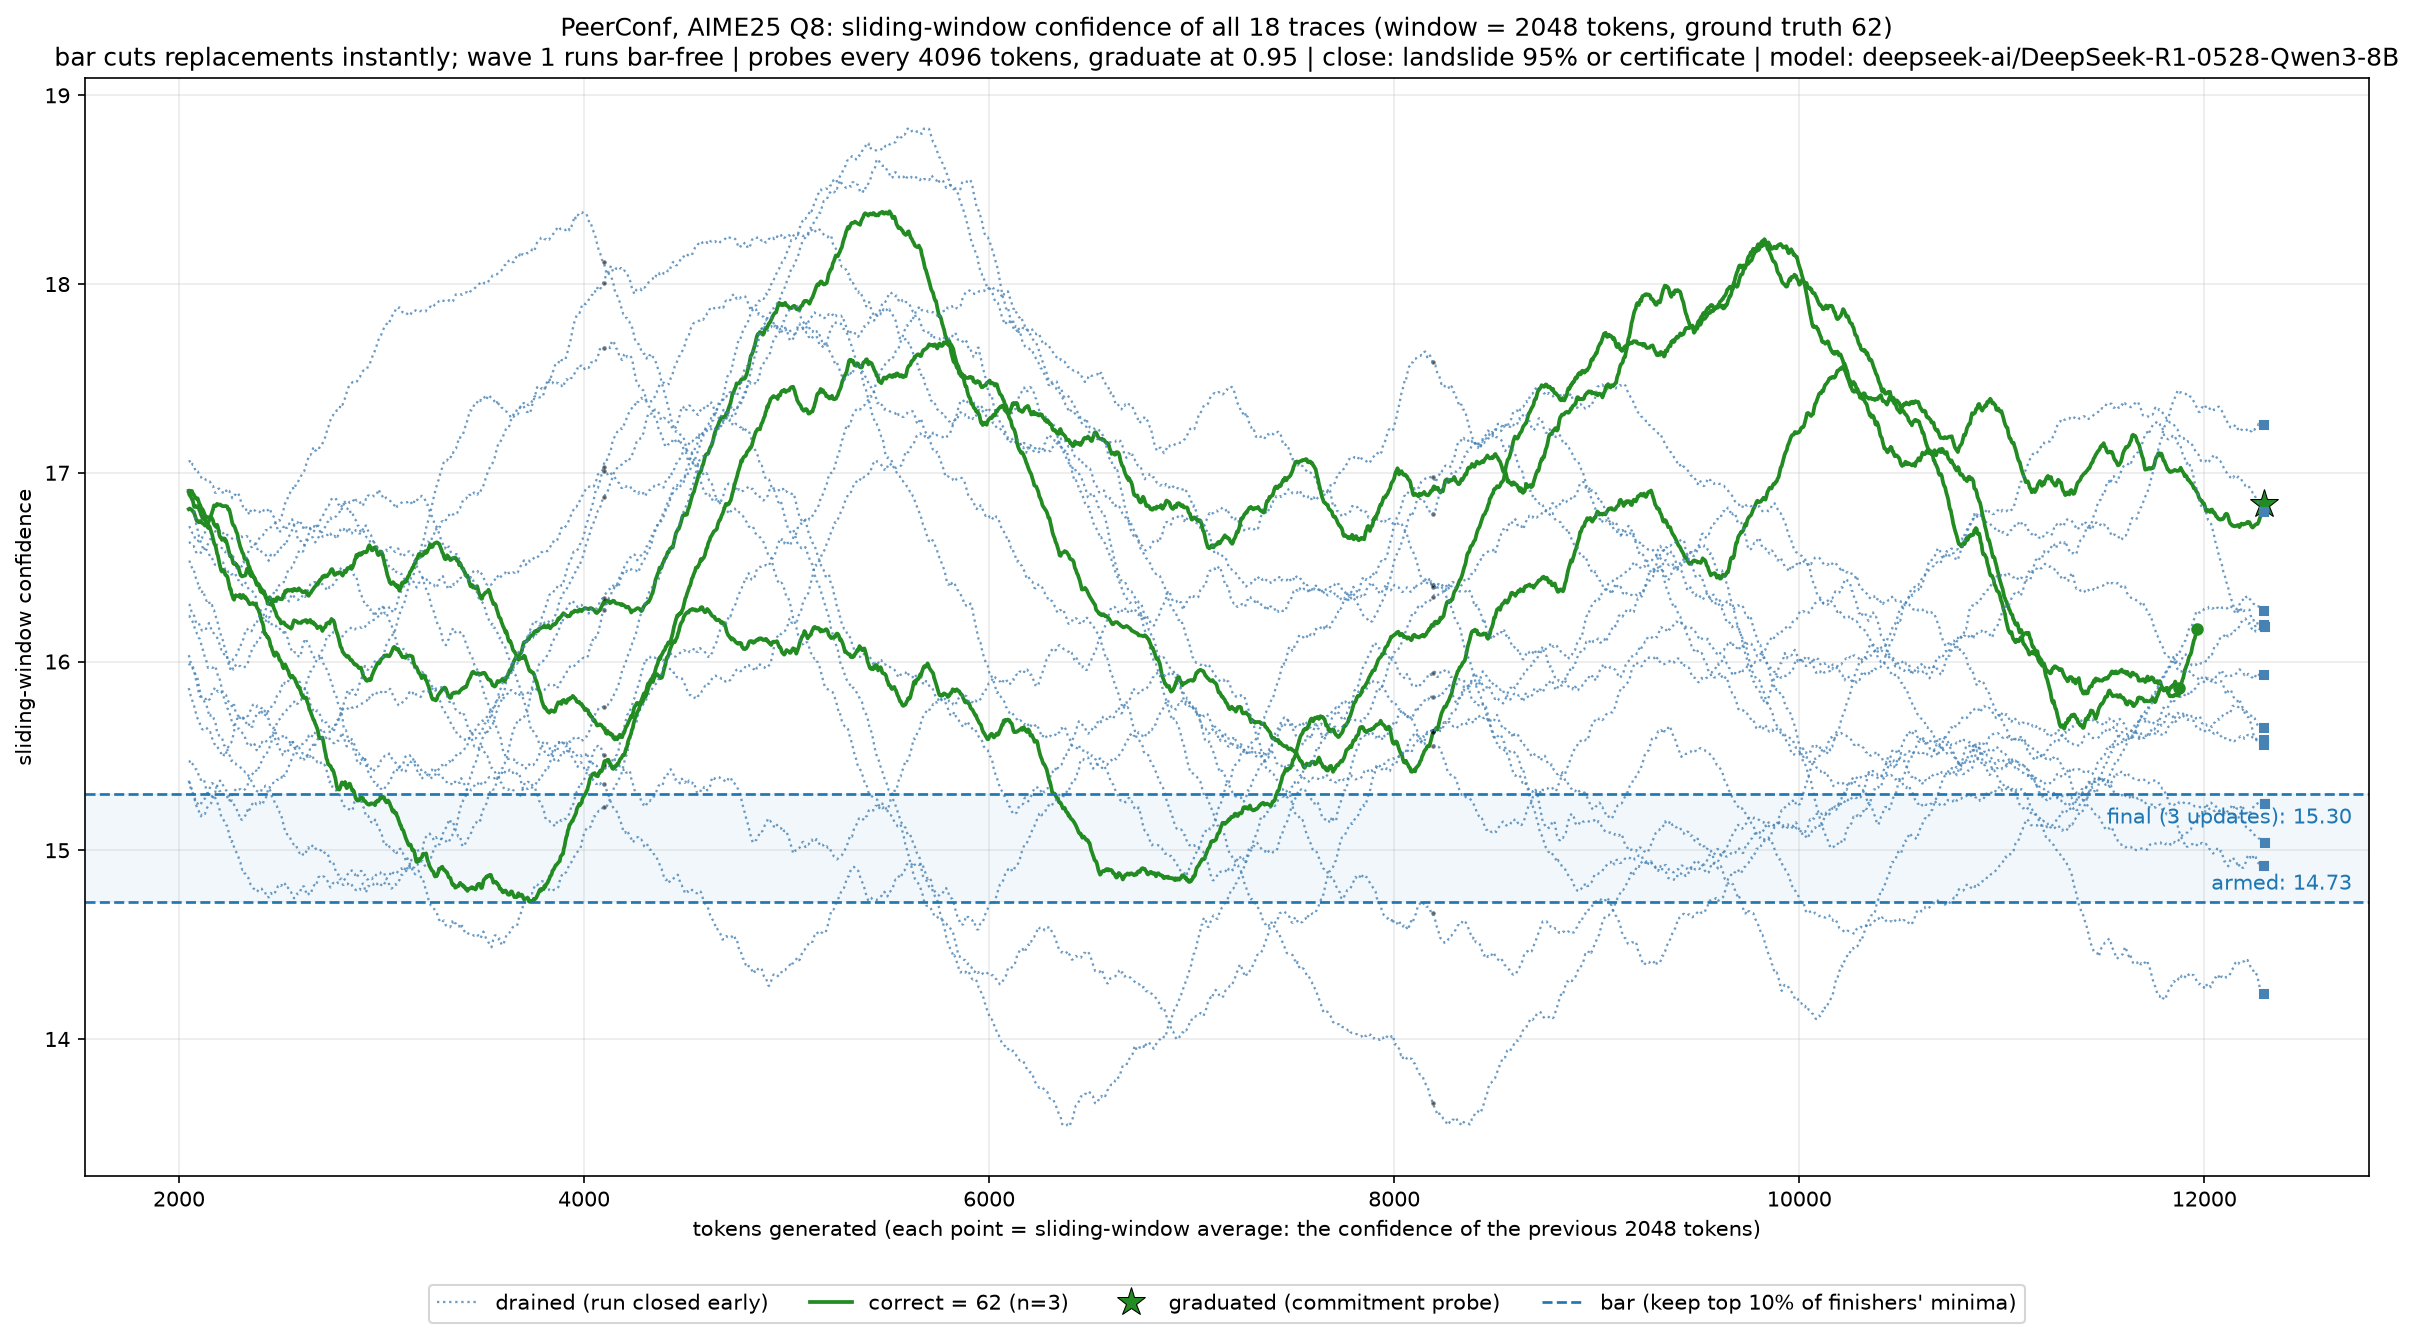
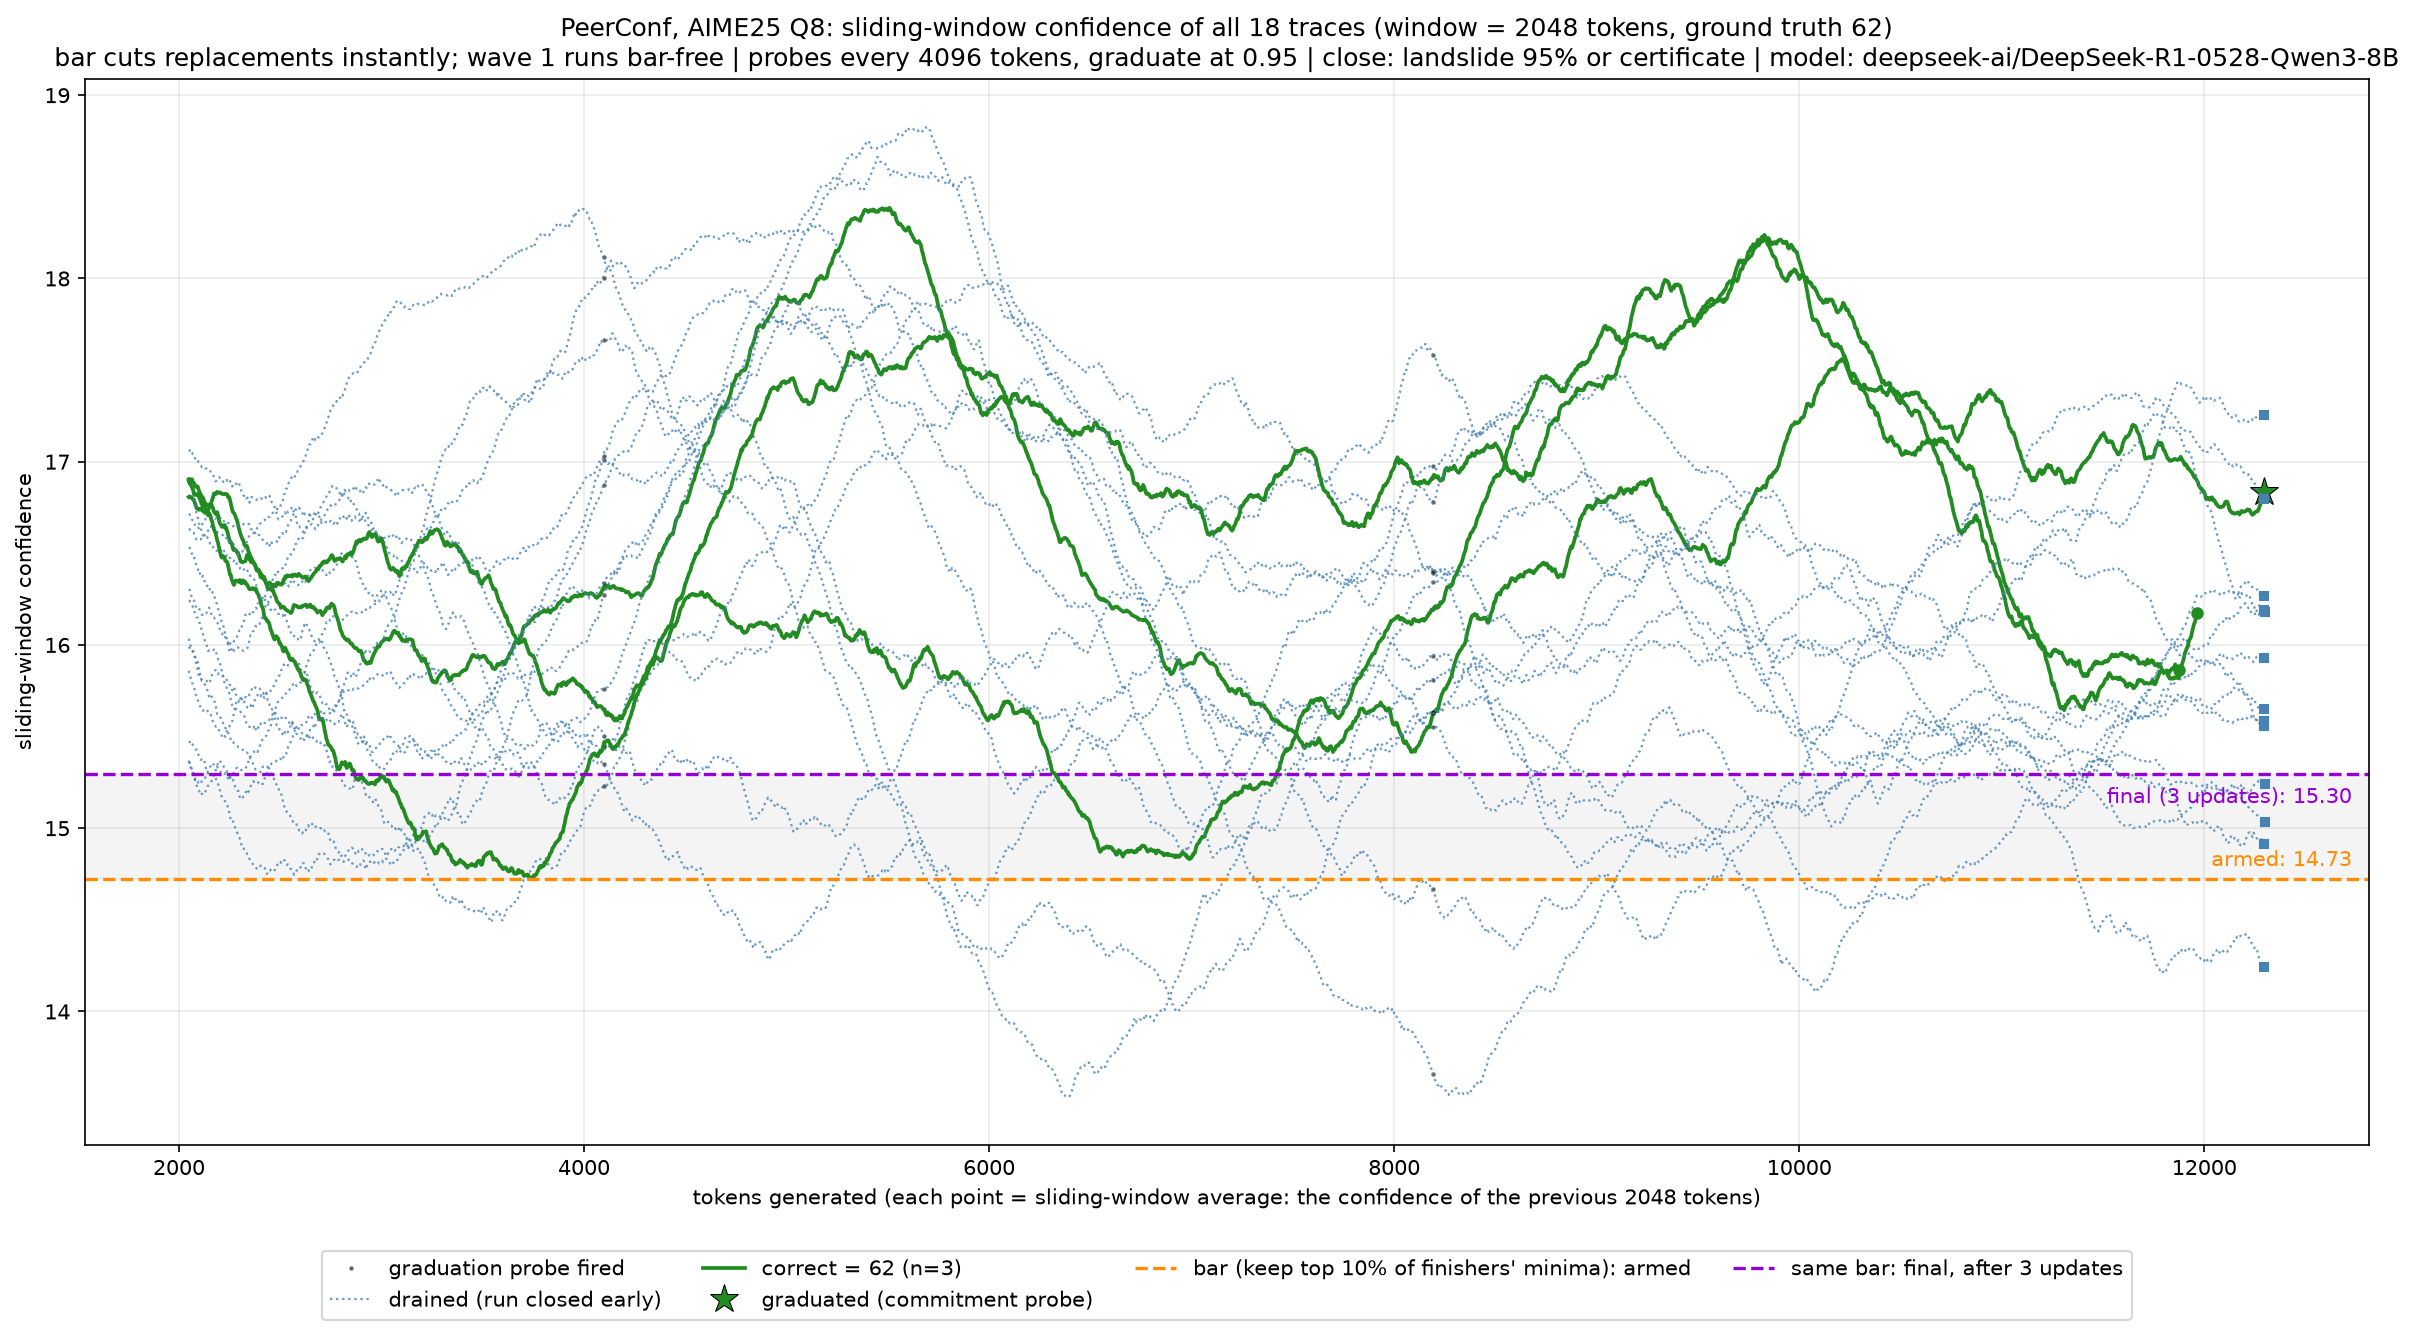
cell3: separate colours for the armed and final bar, name the probe dots
Both levels were the same blue as the drained traces, so the bar looked like
it never moved. Armed is orange, final is purple, and the small black dots
along a trace now say in the legend that they are graduation probes.
Filenames are zero-padded so the figures sort in question order.

diff --git a/peerconf/cell3_confidence_timeline.py b/peerconf/cell3_confidence_timeline.py
@@ -5,7 +5,8 @@
 # Green = finished correct, red = the wrong majority, light red = other wrong
 # answers, gray + X = cut at the bar, khaki dashed = truncated with no answer,
 # steel dotted = drained when the run closed. Stars = graduated by a commitment
-# probe; triangles = loop-guard harvests; small dots along a trace = its probes.
+# probe; triangles = loop-guard harvests; small black dots along a trace mark
+# where each graduation probe fired.
 import os, re, pickle
 import numpy as np
 import matplotlib.pyplot as plt
@@ -86,7 +87,8 @@ def draw_timeline(fname):
         for p in t.get("probes", []):
             at = p.get("at", 0)
             if WINDOW <= at < len(confs) + WINDOW:
-                ax.plot(at, confs[at - WINDOW], ".", color="black", ms=2.5, alpha=0.45)
+                ax.plot(at, confs[at - WINDOW], ".", color="black", ms=2.5, alpha=0.45,
+                        label=label_once("graduation probe fired"))
 
         if t["status"] == "stopped":               # cut at the bar
             ax.plot(xs, ys, color="gray", lw=1.0, alpha=0.7,
@@ -120,17 +122,21 @@ def draw_timeline(fname):
     keep = cfg.get("BAR_KEEP_TOP")
     bar_lab = (f"bar (keep top {keep}% of finishers' minima)" if keep
                else f"line (keep top {cfg.get('LINE_TOP', 0):.0%})")
+    # armed and final get their own colours: blue is the drained traces, and one
+    # blue for both levels made the bar look like it never moved
+    ARMED, FINAL = "darkorange", "darkviolet"
     if lh:
         first, last = lh[0]["line"], lh[-1]["line"]
-        ax.axhline(first, color="tab:blue", ls="--", lw=1.3, label=bar_lab)
-        ax.axhline(last, color="tab:blue", ls="--", lw=1.3)
-        ax.axhspan(min(first, last), max(first, last), color="tab:blue", alpha=0.06)
+        ax.axhline(first, color=ARMED, ls="--", lw=1.6, label=f"{bar_lab}: armed")
+        ax.axhline(last, color=FINAL, ls="--", lw=1.6,
+                   label=f"same bar: final, after {len(lh)} updates")
+        ax.axhspan(min(first, last), max(first, last), color="0.45", alpha=0.08)
         ax.annotate(f"armed: {first:.2f}", xy=(1.0, first),
                     xycoords=("axes fraction", "data"), xytext=(-8, 6),
-                    textcoords="offset points", ha="right", color="tab:blue")
+                    textcoords="offset points", ha="right", color=ARMED)
         ax.annotate(f"final ({len(lh)} updates): {last:.2f}", xy=(1.0, last),
                     xycoords=("axes fraction", "data"), xytext=(-8, -14),
-                    textcoords="offset points", ha="right", color="tab:blue")
+                    textcoords="offset points", ha="right", color=FINAL)
 
     # the generation cap, when the pkl recorded it: a khaki trace that ends here
     # was truncated by the budget, not by anything the run decided
@@ -159,7 +165,7 @@ def draw_timeline(fname):
     ax.grid(alpha=0.25)
     fig.tight_layout()
 
-    out_png = f"{OUT_DIR}/q{qid}_confidence_timeline.png"
+    out_png = f"{OUT_DIR}/q{qid:02d}_confidence_timeline.png"   # zero-padded so they sort
     fig.savefig(out_png, dpi=150, bbox_inches="tight")
     print(f"Saved {out_png}")
     plt.show()
